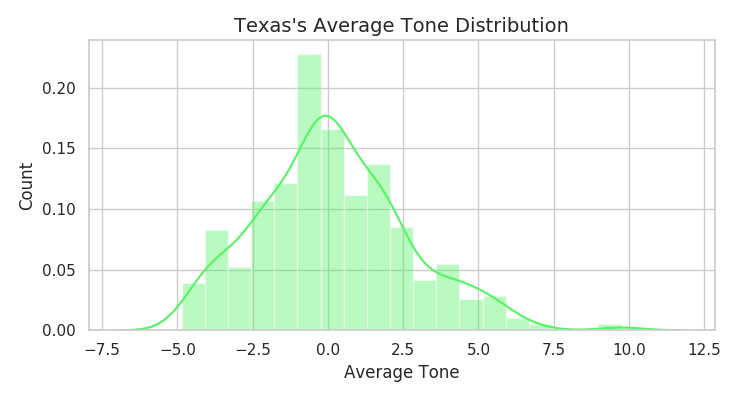
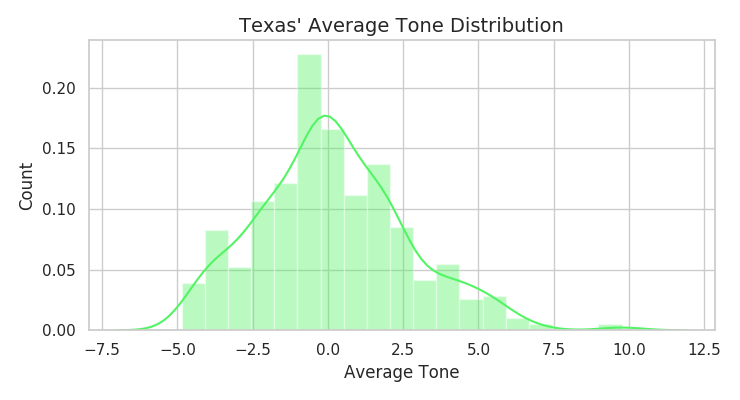
demo1

Changed region(s): [[0.3108, 0.03, 0.777, 0.09]]

diff --git a/gdelt-edu-web/templates/curriculum.html b/gdelt-edu-web/templates/curriculum.html
@@ -31,7 +31,7 @@ Curriculum - GDELT Education
     </div>
   </div>
 <div class="topic-intro caption">
-  <p> The graph on the left displays a histogram of the distribution of Average Tone
+  <p> The graph on the left displays a histogram of the distribution of average tone
     of curriculum articles that were reported within California. The majority of the
     articles appear to have been slighly above 0, indicating a neutral or positive overall
     tone. On the right are the URLs which had the greatest number of mentions.
@@ -77,11 +77,11 @@ Curriculum - GDELT Education
   </div>
 </div>
 <div class="topic-intro caption">
-<p> By hovering one's cursor over the boxes on the above boxplot, one can easily
-  observe the median Average Tone of articles involving the ESSA partitoned over
-  each year from 2015. Overall, the average tone for each year remains in the positive,
-  suggesting that the Act has been generally accepted by the media in the US. 2018
-  has the highest median of 2.35.
+<p> Masachusetts' distribution shifts back to the right, indicating an overall
+  more positive tone. The most mentioned articles involving Massachusetts include
+  articles discussing expanding curriculums to include improved foreign language
+  courses, criticism of a college program focussed on social justice, reforms
+  for math and science curriculum, and also a discussion of sexual education.
 </p>
 </div>
 
@@ -98,11 +98,13 @@ Curriculum - GDELT Education
   </div>
 </div>
 <div class="topic-intro caption">
-<p> By hovering one's cursor over the boxes on the above boxplot, one can easily
-  observe the median Average Tone of articles involving the ESSA partitoned over
-  each year from 2015. Overall, the average tone for each year remains in the positive,
-  suggesting that the Act has been generally accepted by the media in the US. 2018
-  has the highest median of 2.35.
+<p> New York's most popular articles cover topics including curriculum to prevent
+  sexual harrassment, higher education curriculums including cannabis in their
+  curriculums, and several articles where I accidentally captured the spanish
+  word 'curriculum' in which translates to resume in english. In future models
+  I would like to use Natural Language Processing to filter out articles with
+  titles from other languages and to be able to summarize articles using their
+  URLs.
 </p>
 </div>
 

diff --git a/gdelt-edu-web/static/styles.css b/gdelt-edu-web/static/styles.css
@@ -130,7 +130,7 @@ h2 {
   display:inline-block;
   width: 49%;
   height: 70vh;
-  overflow-y: scroll;
+  
 }
 
 .links {

diff --git a/gdelt-edu-web/graphs.py b/gdelt-edu-web/graphs.py
@@ -187,11 +187,12 @@ class Graph(object):
         plt.ylabel('Count', fontsize=12)
         plt.tight_layout()
         plt.subplots_adjust(top=0.9)
-        if state == "Texas":
+        if state == "Texas" or state == "Massachusetts":
             plt.title(state+'\' Average Tone Distribution', fontsize=14)
             url = 'static/'+name_of_file+'.png'
             plt.savefig('/media/sf_sharedwithVM/gdelt-education/gdelt-edu-web/static/'+name_of_file+'.png')
-            
+            return url
+
         plt.title(state+'\'s Average Tone Distribution', fontsize=14)
         url = 'static/'+name_of_file+'.png'
         plt.savefig('/media/sf_sharedwithVM/gdelt-education/gdelt-edu-web/static/'+name_of_file+'.png')
